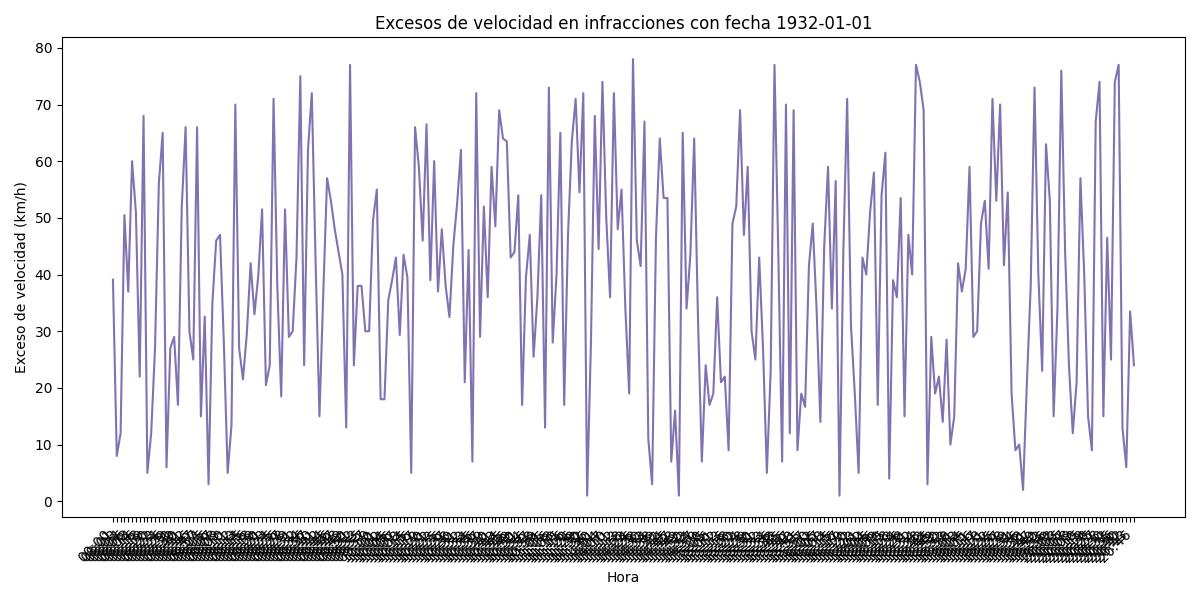
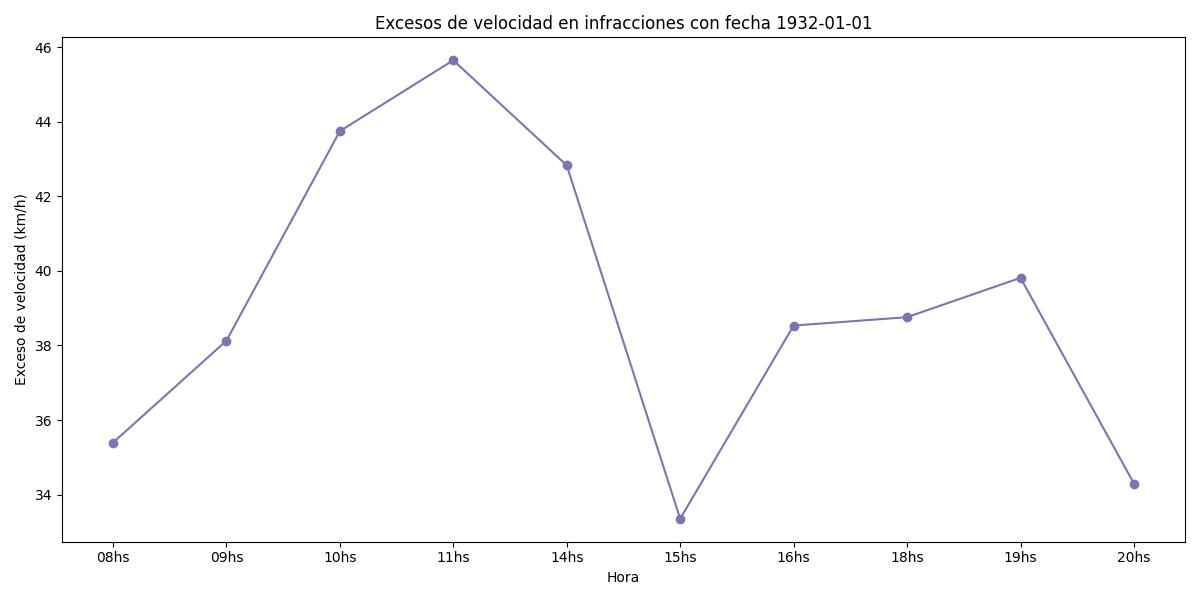
punto 5 - arreglar hour y date

diff --git a/CHANGELOG.md b/CHANGELOG.md
@@ -35,3 +35,6 @@ Gráficos de top patentes (`fines.jpg`), porcentaje de infracciones por hora (`h
 
 ## Día 12
 Gráficos de líneas para los excesos filtrados por hora `00:00` (`hour.jpg`) y por fecha `1932-01-01` (`date.jpg`), con la interpretación documentada en el notebook.
+
+## Día 13
+Arreglo de `hour.jpg` y `date.jpg`: se excluye el default opuesto en cada filtro y se agrupa `date.jpg` por hora del reloj (0–23) para que el eje X quede legible.
